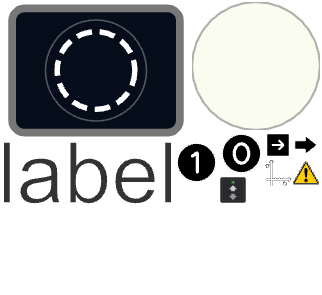
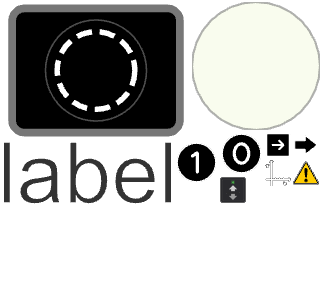
feat: grayscale style

Changed region(s): [[0.0311, 0.0305, 0.559, 0.4576]]

diff --git a/packages/ui/world/src/components/Lights.tsx b/packages/ui/world/src/components/Lights.tsx
@@ -9,7 +9,7 @@ export default function Lights() {
         position={[Math.cos(2 * Math.PI * (0 / 3)), 1, Math.sin(2 * Math.PI * (0 / 3))]}
         lookAt={origin}
         intensity={directionLightIntensity}
-        color="red"
+        // color="red"
       />
       <directionalLight
         position={[Math.cos(2 * Math.PI * (1 / 3)), 1, Math.sin(2 * Math.PI * (1 / 3))]}
